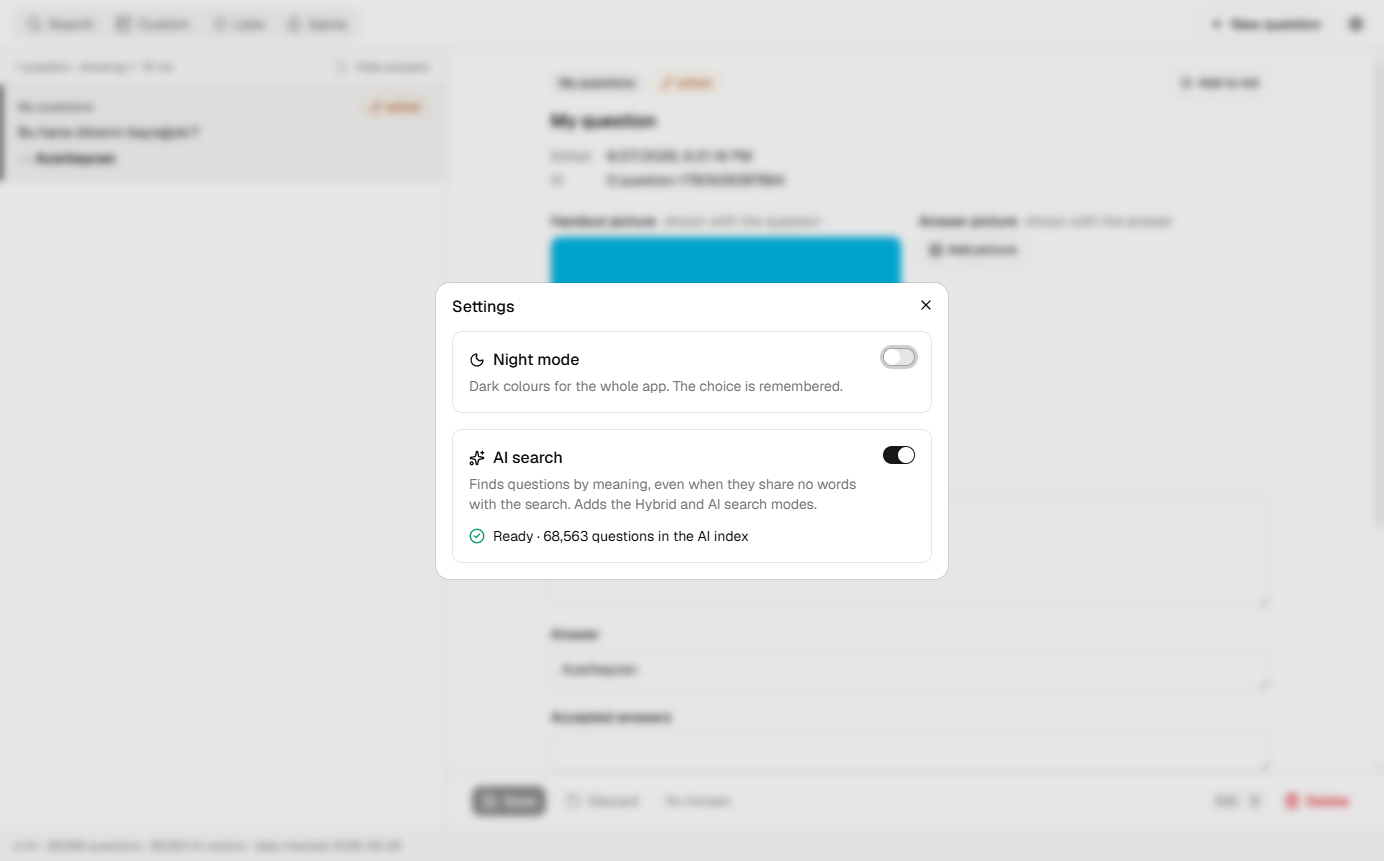
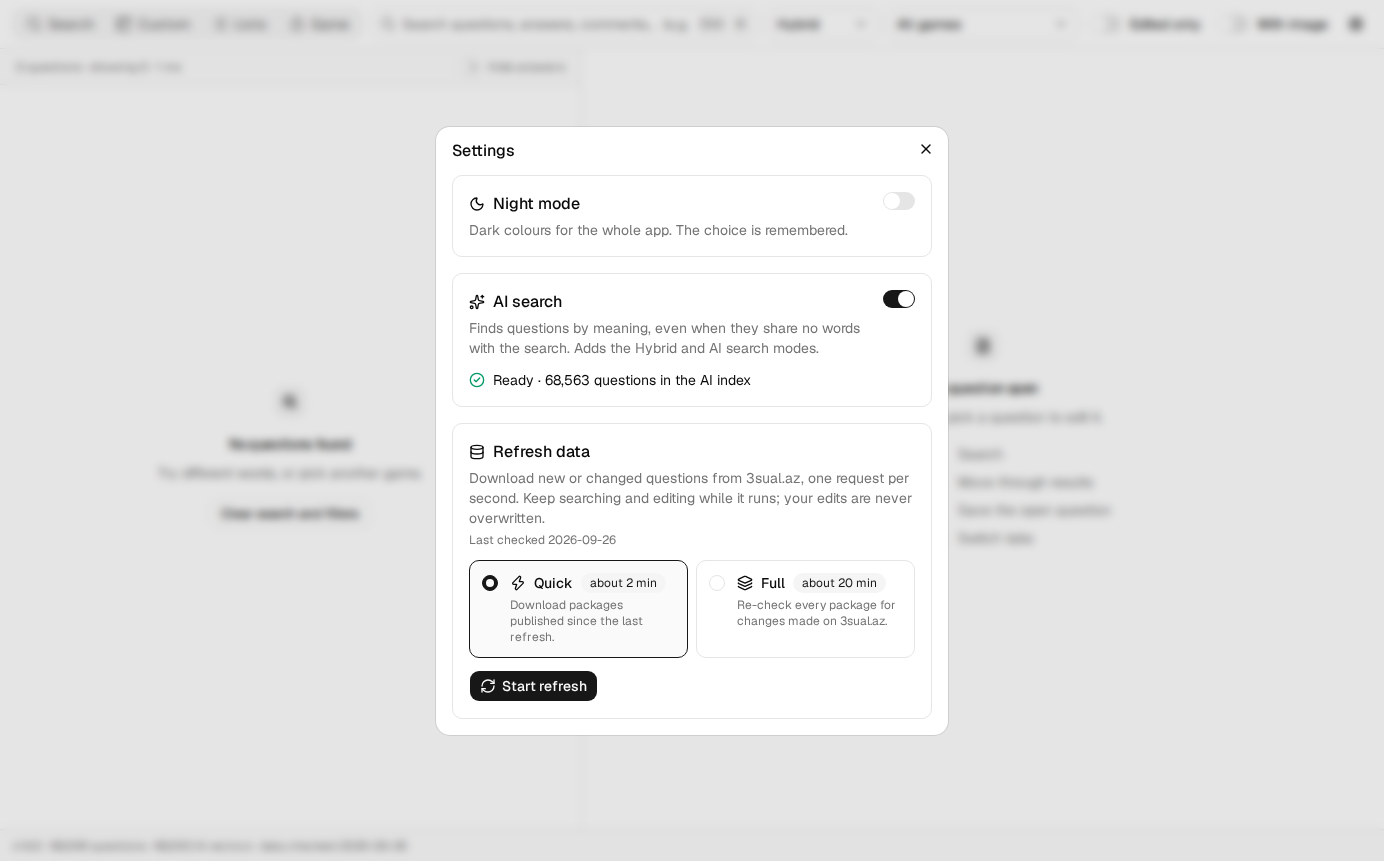
Refresh data moves from the search bar to Settings, with its modes, progress and Stop there
Claude-Session: https://claude.ai/code/session_01F7jT2ryLDqL6D8aMMuzX3F

diff --git a/app/ui/App.jsx b/app/ui/App.jsx
@@ -3,8 +3,8 @@ import { toast } from 'sonner';
 import { useDefaultLayout } from 'react-resizable-panels';
 import { cn } from 'cn';
 import {
-  DownloadIcon, EyeIcon, FileDownIcon, FileUpIcon, FileTextIcon, ImagePlusIcon, LayersIcon, PencilIcon, RefreshCwIcon, RotateCcwIcon, SaveIcon, SearchIcon,
-  ListIcon, ListPlusIcon, MoonIcon, NotebookPenIcon, PlusIcon, SearchXIcon, SettingsIcon, SparklesIcon, SquareIcon, TimerIcon, Trash2Icon, UserIcon, XIcon, ZapIcon,
+  DownloadIcon, EyeIcon, FileDownIcon, FileUpIcon, FileTextIcon, ImagePlusIcon, PencilIcon, RotateCcwIcon, SaveIcon, SearchIcon,
+  ListIcon, ListPlusIcon, MoonIcon, NotebookPenIcon, PlusIcon, SearchXIcon, SettingsIcon, SparklesIcon, TimerIcon, Trash2Icon, UserIcon, XIcon,
 } from 'lucide-react';
 import {
   AlertDialog, AlertDialogAction, AlertDialogCancel, AlertDialogContent, AlertDialogDescription, AlertDialogFooter,
@@ -12,15 +12,12 @@ import {
 } from '@/components/ui/alert-dialog';
 import { Badge } from '@/components/ui/badge';
 import { Button } from '@/components/ui/button';
-import {
-  Dialog, DialogClose, DialogContent, DialogDescription, DialogFooter, DialogHeader, DialogTitle,
-} from '@/components/ui/dialog';
+import { Dialog, DialogContent, DialogTitle } from '@/components/ui/dialog';
 import { Empty, EmptyContent, EmptyDescription, EmptyHeader, EmptyMedia, EmptyTitle } from '@/components/ui/empty';
 import { InputGroup, InputGroupAddon, InputGroupButton, InputGroupInput } from '@/components/ui/input-group';
 import { Kbd, KbdGroup } from '@/components/ui/kbd';
 import { Label } from '@/components/ui/label';
 import { Progress } from '@/components/ui/progress';
-import { RadioGroup, RadioGroupItem } from '@/components/ui/radio-group';
 import { ResizableHandle, ResizablePanel, ResizablePanelGroup } from '@/components/ui/resizable';
 import { Select, SelectContent, SelectItem, SelectTrigger, SelectValue } from '@/components/ui/select';
 import { Spinner } from '@/components/ui/spinner';
@@ -48,10 +45,6 @@ const MODES = [
   ['hybrid', 'Hybrid', 'Keyword matches re-ranked with AI similarity'],
   ['keyword', 'Keyword', 'Exact words (BM25), tolerant of small typos'],
   ['ai', 'AI', 'Similar meaning, even without shared words'],
-];
-const REFRESH_MODES = [
-  ['quick', ZapIcon, 'Quick', 'about 2 min', 'Download packages published since the last refresh.'],
-  ['full', LayersIcon, 'Full', 'about 20 min', 'Re-check every package for changes made on 3sual.az.'],
 ];
 const STAGES = { list: 'Listing packages', packages: 'Downloading packages', audit: 'Checking authors',
   images: 'Downloading images', index: 'Rebuilding search index', embed: 'Computing AI vectors' };
@@ -318,7 +311,6 @@ export default function App() {
   const [savedAt, setSavedAt] = useState(null);
   const [progress, setProgress] = useState(null);
   const [stopping, setStopping] = useState(false);
-  const [refreshOpen, setRefreshOpen] = useState(false);
   const [refreshMode, setRefreshMode] = useState('quick');
   const [ask, setAsk] = useState(null);
   const [zoom, setZoom] = useState(null);
@@ -515,7 +507,6 @@ export default function App() {
   }
 
   async function startRefresh() {
-    setRefreshOpen(false);
     setProgress({ stage: 'start' });
     const r = await api.refresh(refreshMode).catch(e => ({ error: e.message }));
     setProgress(null);
@@ -664,16 +655,6 @@ export default function App() {
           <Switch id="with-image" checked={withImage} onCheckedChange={filter(setWithImage)} />
           <Label htmlFor="with-image" className="font-normal">With image</Label>
         </div>
-        {progress ? (
-          <Button variant="outline" onClick={stopRefresh} disabled={stopping}><SquareIcon className="fill-current" />Stop refresh</Button>
-        ) : (
-          <Tooltip>
-            <TooltipTrigger asChild>
-              <Button variant="outline" onClick={() => setRefreshOpen(true)}><RefreshCwIcon />Refresh data</Button>
-            </TooltipTrigger>
-            <TooltipContent>Download new or changed questions from 3sual.az</TooltipContent>
-          </Tooltip>
-        )}
         </>}
         <Tooltip>
           <TooltipTrigger asChild>
@@ -774,7 +755,9 @@ export default function App() {
         <Game key={gameSession} isVisible={view === 'game'} lists={lists} listId={gameListId} onListIdChange={setGameListId}
           isAiReady={isAiReady} onOpenSettings={() => setIsSettingsOpen(true)} />
       </div>
-      <SettingsDialog open={isSettingsOpen} onOpenChange={setIsSettingsOpen} aiStatus={aiStatus} onAiSearchChange={changeAiSearch} />
+      <SettingsDialog open={isSettingsOpen} onOpenChange={setIsSettingsOpen} aiStatus={aiStatus} onAiSearchChange={changeAiSearch}
+        refresh={{ stage, isRunning: !!progress, isStopping: stopping, percent: progress?.total ? (progress.done / progress.total) * 100 : null,
+          mode: refreshMode, dataDate: info?.dataDate, onModeChange: setRefreshMode, onStart: startRefresh, onStop: stopRefresh }} />
       <ListNameDialog open={isCreatingListForCurrent} title="New list" confirmLabel="Create and add"
         onOpenChange={setIsCreatingListForCurrent} onSubmit={createListWithCurrent} />
 
@@ -805,36 +788,6 @@ export default function App() {
           )}
         </div>
       </footer>
-
-      <Dialog open={refreshOpen} onOpenChange={setRefreshOpen}>
-        <DialogContent className="sm:max-w-md">
-          <DialogHeader>
-            <DialogTitle>Refresh data from 3sual.az</DialogTitle>
-            <DialogDescription>
-              The built-in scraper downloads politely, one request per second. Keep searching and editing while it runs;
-              your edits are never overwritten.
-            </DialogDescription>
-          </DialogHeader>
-          <RadioGroup value={refreshMode} onValueChange={setRefreshMode}>
-            {REFRESH_MODES.map(([value, Icon, title, time, description]) => (
-              <Label key={value} htmlFor={`refresh-${value}`}
-                className="flex cursor-pointer items-start gap-3 rounded-lg border p-3 font-normal transition-colors hover:bg-muted/50 has-[[data-state=checked]]:border-primary has-[[data-state=checked]]:bg-muted/50">
-                <RadioGroupItem id={`refresh-${value}`} value={value} className="mt-0.5" />
-                <div className="grid gap-1">
-                  <div className="flex items-center gap-2 font-medium"><Icon className="size-4" />{title}
-                    <Badge variant="secondary" className="font-normal">{time}</Badge>
-                  </div>
-                  <p className="text-muted-foreground">{description}</p>
-                </div>
-              </Label>
-            ))}
-          </RadioGroup>
-          <DialogFooter>
-            <DialogClose asChild><Button variant="outline">Cancel</Button></DialogClose>
-            <Button onClick={startRefresh}><RefreshCwIcon />Start refresh</Button>
-          </DialogFooter>
-        </DialogContent>
-      </Dialog>
 
       <AlertDialog open={!!ask} onOpenChange={o => { if (!o) { ask?.(false); setAsk(null); } }}>
         <AlertDialogContent>

diff --git a/app/ui/Settings.jsx b/app/ui/Settings.jsx
@@ -1,17 +1,23 @@
 import { useState } from 'react';
-import { CircleAlertIcon, CircleCheckIcon, MoonIcon, RotateCcwIcon, SparklesIcon } from 'lucide-react';
+import { CircleAlertIcon, CircleCheckIcon, DatabaseIcon, LayersIcon, MoonIcon, RefreshCwIcon, RotateCcwIcon, SparklesIcon, SquareIcon, ZapIcon } from 'lucide-react';
 import {
   AlertDialog, AlertDialogAction, AlertDialogCancel, AlertDialogContent, AlertDialogDescription, AlertDialogFooter,
   AlertDialogHeader, AlertDialogTitle,
 } from '@/components/ui/alert-dialog';
 import { Button } from '@/components/ui/button';
 import { Dialog, DialogContent, DialogHeader, DialogTitle } from '@/components/ui/dialog';
+import { Badge } from '@/components/ui/badge';
 import { Label } from '@/components/ui/label';
 import { Progress } from '@/components/ui/progress';
+import { RadioGroup, RadioGroupItem } from '@/components/ui/radio-group';
 import { Spinner } from '@/components/ui/spinner';
 import { Switch } from '@/components/ui/switch';
 import { setNightMode, useNightMode } from './theme';
 
+const REFRESH_MODES = [
+  ['quick', ZapIcon, 'Quick', 'about 2 min', 'Download packages published since the last refresh.'],
+  ['full', LayersIcon, 'Full', 'about 20 min', 'Re-check every package for changes made on 3sual.az.'],
+];
 const formatCount = n => n.toLocaleString('en');
 const megabytes = bytes => formatCount(Math.round(bytes / 1e6));
 const timeLeft = seconds => (seconds == null ? '' : seconds < 90 ? ' · about a minute left' : ` · about ${Math.round(seconds / 60)} min left`);
@@ -38,7 +44,49 @@ export function describeAiWork(status) {
   }
 }
 
-export default function SettingsDialog({ open, onOpenChange, aiStatus, onAiSearchChange }) {
+function RefreshSection({ refresh }) {
+  return (
+    <section className="grid gap-3 rounded-lg border p-4">
+      <div className="grid gap-1">
+        <Label className="text-base"><DatabaseIcon className="size-4" />Refresh data</Label>
+        <p className="text-muted-foreground">
+          Download new or changed questions from 3sual.az, one request per second. Keep searching and editing while it
+          runs; your edits are never overwritten.
+        </p>
+        {refresh.dataDate && <p className="text-xs text-muted-foreground">Last checked {refresh.dataDate.slice(0, 10)}</p>}
+      </div>
+      {refresh.isRunning ? (
+        <div className="grid gap-2">
+          <span className="flex items-center gap-2"><Spinner />{refresh.stage}</span>
+          {refresh.percent != null && <Progress value={refresh.percent} />}
+          <Button variant="outline" className="justify-self-start" onClick={refresh.onStop} disabled={refresh.isStopping}>
+            <SquareIcon className="fill-current" />Stop refresh
+          </Button>
+        </div>
+      ) : (
+        <>
+          <RadioGroup value={refresh.mode} onValueChange={refresh.onModeChange} className="grid-cols-2">
+            {REFRESH_MODES.map(([value, Icon, title, time, description]) => (
+              <Label key={value} htmlFor={`refresh-${value}`}
+                className="flex cursor-pointer items-start gap-3 rounded-lg border p-3 font-normal transition-colors hover:bg-muted/50 has-[[data-state=checked]]:border-primary has-[[data-state=checked]]:bg-muted/50">
+                <RadioGroupItem id={`refresh-${value}`} value={value} className="mt-0.5" />
+                <div className="grid gap-1">
+                  <div className="flex flex-wrap items-center gap-2 font-medium"><Icon className="size-4" />{title}
+                    <Badge variant="secondary" className="font-normal">{time}</Badge>
+                  </div>
+                  <p className="text-xs text-muted-foreground">{description}</p>
+                </div>
+              </Label>
+            ))}
+          </RadioGroup>
+          <Button className="justify-self-start" onClick={refresh.onStart}><RefreshCwIcon />Start refresh</Button>
+        </>
+      )}
+    </section>
+  );
+}
+
+export default function SettingsDialog({ open, onOpenChange, aiStatus, onAiSearchChange, refresh }) {
   const [isConfirmingTurnOff, setIsConfirmingTurnOff] = useState(false);
   const nightMode = useNightMode();
   const isAiOn = !['off', 'stopping'].includes(aiStatus.state);
@@ -47,7 +95,7 @@ export default function SettingsDialog({ open, onOpenChange, aiStatus, onAiSearc
   return (
     <>
       <Dialog open={open} onOpenChange={onOpenChange}>
-        <DialogContent className="sm:max-w-lg" aria-describedby={undefined}>
+        <DialogContent className="max-h-[90vh] overflow-y-auto sm:max-w-lg" aria-describedby={undefined}>
           <DialogHeader><DialogTitle>Settings</DialogTitle></DialogHeader>
           <section className="flex items-start justify-between gap-4 rounded-lg border p-4">
             <div className="grid gap-1">
@@ -93,6 +141,7 @@ export default function SettingsDialog({ open, onOpenChange, aiStatus, onAiSearc
               </div>
             )}
           </section>
+          <RefreshSection refresh={refresh} />
         </DialogContent>
       </Dialog>
       <AlertDialog open={isConfirmingTurnOff} onOpenChange={setIsConfirmingTurnOff}>

diff --git a/docs/app.md b/docs/app.md
@@ -155,7 +155,7 @@ the party header turns them off and on for everyone. Windows
   here are used as they are, your own questions already here are reused, and every other question, custom or from a
   question bank this computer lacks, is added to your own questions first. A message sums up what was added.
 - **Images** are shown from `data/images/` when `scraper.js images` has fetched them, otherwise from the site.
-- **Refresh data** (header button) runs the scraper inside the app and brings the open database up to date.
+- **Refresh data** (in Settings, the gear icon top right) runs the scraper inside the app and brings the open database up to date.
   *Quick* (~2 min) lists every package, fetches the ones not stored yet and runs the author check. *Full*
   (~20 min) also refetches every stored package, which picks up upstream edits. Both then download new
   images, rebuild the index and embed new or changed questions. Search and editing keep working meanwhile, and

diff --git a/README.md b/README.md
@@ -72,7 +72,7 @@ phones cannot join a party.
 ## Question bank
 
 The installer comes with about 68,000 Azerbaijani questions from [3sual.az](https://3sual.az/), collected
-from its public API by the included scraper (*Refresh data* in the app fetches new ones). The questions
+from its public API by the included scraper (*Refresh data* in Settings fetches new ones). The questions
 belong to their authors and to 3sual.az. Your own questions and edits are kept apart from refreshes and
 updates.
 
